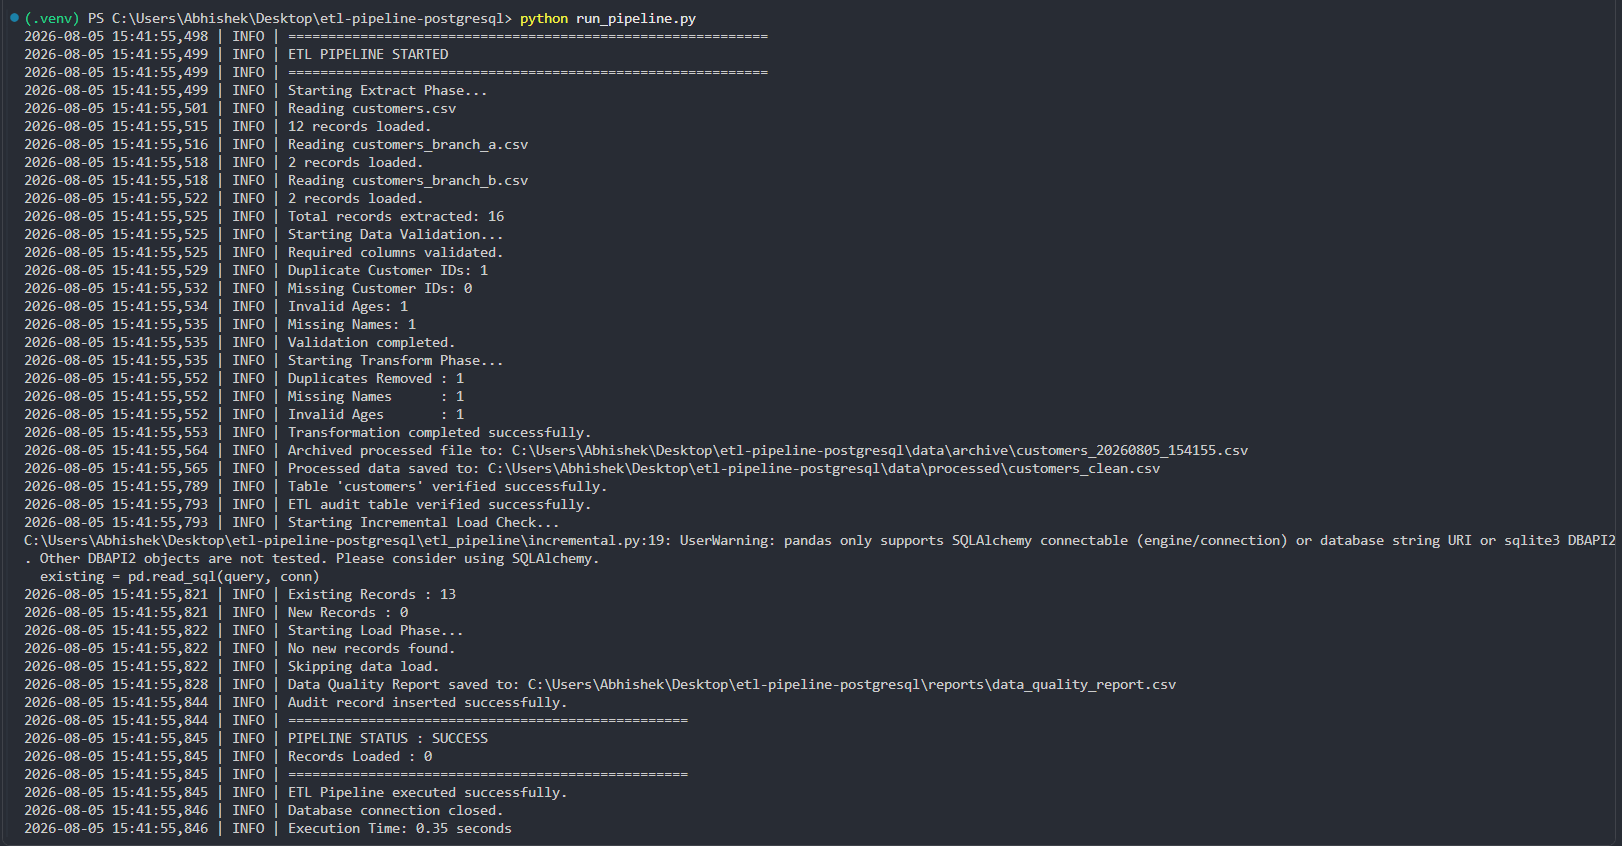
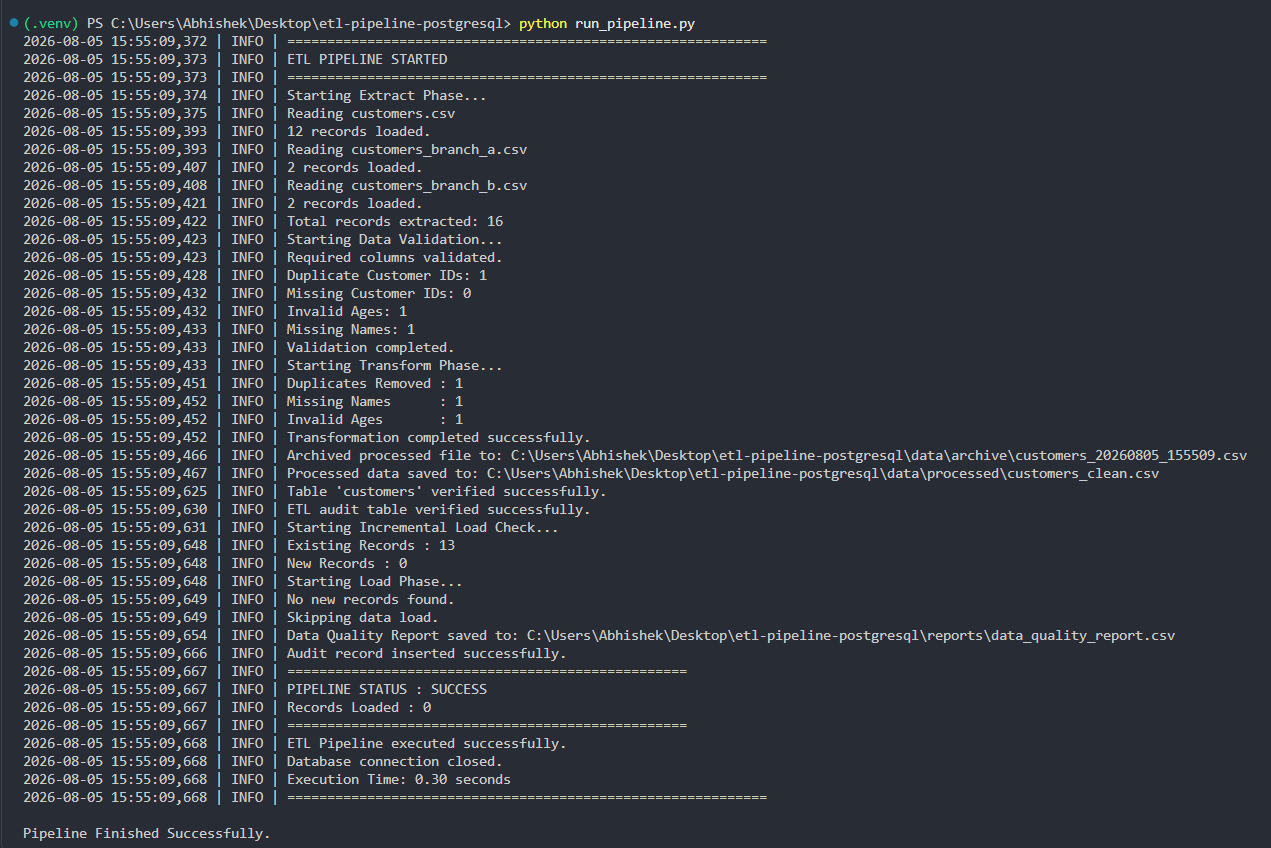
Modify some files

Changed region(s): [[0.0, 0.0, 1.0, 1.0]]

diff --git a/etl_pipeline/incremental.py b/etl_pipeline/incremental.py
@@ -6,22 +6,34 @@ from etl_pipeline.settings import CUSTOMERS_TABLE
 
 def filter_new_records(conn, df: pd.DataFrame):
     """
-    Filter out records that already exist in the database.
+    Filter out records that already exist
+    in the PostgreSQL database.
     """
 
     logger.info("Starting Incremental Load Check...")
 
-    query = f"""
+    cursor = conn.cursor()
+
+    cursor.execute(
+        f"""
         SELECT customer_id
         FROM {CUSTOMERS_TABLE};
-    """
+        """
+    )
 
-    existing = pd.read_sql(query, conn)
+    existing_ids = {
+        row[0]
+        for row in cursor.fetchall()
+    }
+
+    cursor.close()
+
+    existing_records = len(existing_ids)
 
     # -------------------------
     # Database Empty
     # -------------------------
-    if existing.empty:
+    if existing_records == 0:
 
         logger.info(
             "Database is empty. Loading all records."
@@ -37,21 +49,21 @@ def filter_new_records(conn, df: pd.DataFrame):
     # Filter New Records
     # -------------------------
     new_df = df[
-        ~df["customerid"].isin(
-            existing["customer_id"]
-        )
+        ~df["customerid"].isin(existing_ids)
     ]
 
+    new_records = len(new_df)
+
     logger.info(
-        f"Existing Records : {len(existing)}"
+        f"Existing Records : {existing_records}"
     )
 
     logger.info(
-        f"New Records : {len(new_df)}"
+        f"New Records : {new_records}"
     )
 
     return (
         new_df,
-        len(existing),
-        len(new_df),
+        existing_records,
+        new_records,
     )
